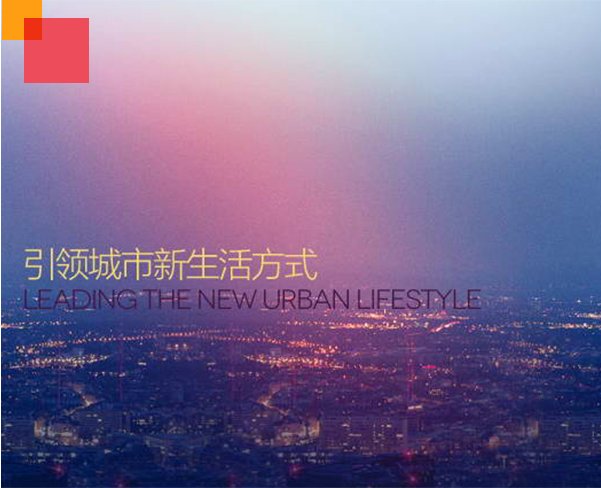
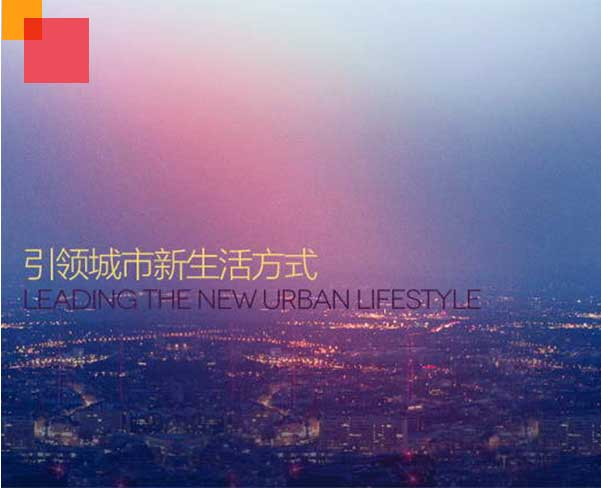
优化图片，首页加载等

diff --git a/views/website/about/history.html b/views/website/about/history.html
@@ -60,10 +60,22 @@
       </span>
       <div class="layui-row">
         <div class="layui-col-md7 history-l">
-          <img class="wow layui-anim animated fadeInLeft" src="/web/img/history/pic1.png">
-          <img class="wow layui-anim animated fadeInLeft" src="/web/img/history/pic2.png">
-          <img class="wow layui-anim animated fadeInLeft" src="/web/img/history/pic3.png">
-          <img class="wow layui-anim animated fadeInLeft" style="margin-bottom:0;" src="/web/img/history/pic4.png">
+          <div>
+            <img class="wow layui-anim animated fadeInLeft" style="margin-right: -20px;" src="/web/img/history/pic1.jpg">
+            <img class="wow layui-anim animated fadeInLeft" src="/web/img/history/line.png">
+          </div>
+          <div>
+            <img class="wow layui-anim animated fadeInLeft" style="margin-right: -20px;" src="/web/img/history/pic2.jpg">
+            <img class="wow layui-anim animated fadeInLeft" src="/web/img/history/line.png">
+          </div>
+          <div>
+            <img class="wow layui-anim animated fadeInLeft" style="margin-right: -20px;" src="/web/img/history/pic3.jpg">
+            <img class="wow layui-anim animated fadeInLeft" src="/web/img/history/line.png">
+          </div>
+          <div>
+            <img class="wow layui-anim animated fadeInLeft" style="margin-right: -20px; margin-bottom: 0" src="/web/img/history/pic4.jpg">
+            <img class="wow layui-anim animated fadeInLeft" src="/web/img/history/line.png">
+          </div>
         </div>
         <div class="layui-col-md5 history-r" style="text-align: center">
           <img class="wow layui-anim animated fadeInRight" data-wow-delay=".5s" data-wow-duration="1s" style="margin-top:-5px;" src="/web/img/history/2017.png">
@@ -77,7 +89,7 @@
           <img class="wow layui-anim animated fadeInRight" data-wow-delay=".5s" data-wow-duration="1s" style="padding-top: 10px;" src="/web/img/history/2009.png">
           <img class="wow layui-anim animated fadeInRight" data-wow-delay=".5s" data-wow-duration="1s" style="padding-top: 45px;" src="/web/img/history/2008.png">
           <img class="wow layui-anim animated fadeInRight" data-wow-delay=".5s" data-wow-duration="1s" style="padding-top: 55px;" src="/web/img/history/2007.png">
-          <img class="wow layui-anim animated fadeInRight" data-wow-delay=".5s" data-wow-duration="1s" style="padding-top: 55px;" data-wow-offset="100" src="/web/img/history/2006.png">
+          <img class="wow layui-anim animated fadeInRight" data-wow-delay=".5s" data-wow-duration="1s" style="padding-top: 45px;" data-wow-offset="100" src="/web/img/history/2006.png">
         </div>
 </div>
 <script>

diff --git a/views/website/index/index.html b/views/website/index/index.html
@@ -1,12 +1,8 @@
 <%include ../common/include_header.html%>
 
 <!-- banner部分 -->
-<div style="height:572px;">
-  <div class="layui-carousel animated bounceInDown" id="banner">
-    <div carousel-item>
-      <div style="background:url(/web/img/banner2.jpg) no-repeat top center"></div>
-      <div style="background:url(/web/img/banner1.jpg) no-repeat top center"></div>
-    </div>
+<div>
+  <img src="/web/img/banner2.jpg" hegiht="572" width="100%" alt="">
   </div>
 </div>
 <!-- main部分 -->
@@ -18,19 +14,19 @@
           <div class="layui-carousel layui-anim layui-anim-upbit" style="animation-duration: 1.3s;" id="project">
             <div carousel-item>
               <div>
-                <img width="100%" src="/web/img/project1.png" alt="">
+                <img width="100%" src="/web/img/project1.jpg" alt="">
                 <p class="project-title">美佳华项目-1</p>
               </div>
               <div>
-                <img width="100%" src="/web/img/project1.png" alt="">
+                <img width="100%" src="/web/img/project1.jpg" alt="">
                 <p class="project-title">美佳华项目-2</p>
               </div>
               <div>
-                <img width="100%" src="/web/img/project1.png" alt="">
+                <img width="100%" src="/web/img/project1.jpg" alt="">
                 <p class="project-title">美佳华项目-3</p>
               </div>
               <div>
-                <img width="100%" src="/web/img/project1.png" alt="">
+                <img width="100%" src="/web/img/project1.jpg" alt="">
                 <p class="project-title">美佳华项目-4</p>
               </div>
             </div>
@@ -94,29 +90,5 @@
     </div>
   </div>
 </div>
-<script src="https://code.createjs.com/1.0.0/preloadjs.min.js"></script>
-<script>
-  // 优加载资源
-  setTimeout(function () {
-    var queue = new createjs.LoadQueue(true);
-
-    queue.loadManifest(
-      [
-        "web/img/culture.png",
-        "web/img/culture-main.png",
-
-        "web/img/history.png",
-        "web/img/history-main_01.png",
-        "web/img/history-main_02.png",
-        "web/img/history-main_03.png",
-        "web/img/history-main_04.png",
-
-        "web/img/profile.png",
-        "web/img/profile-main.png",
-
-        "web/img/honor.png"
-      ]
-    );
-  }, 0);  
-</script>
+<!-- <script src="https://code.createjs.com/1.0.0/preloadjs.min.js"></script> -->
 <%include ../common/include_footer.html%>

diff --git a/views/website/about/culture.html b/views/website/about/culture.html
@@ -51,7 +51,7 @@
   </span>
   <div class="layui-row">
     <div class="layui-col-md6">
-      <img class="layui-anim animated flipInY" src="/web/img/culture-1.png" alt="" style="width: 100%">
+      <img class="layui-anim animated flipInY" src="/web/img/culture-1.jpg" alt="" style="width: 100%">
     </div>
     <div class="layui-col-md6" style="text-align: left">
       <img class="animated flipInY" src="/web/img/culture-2.png" alt="" style="width: 72%; margin-top: 15%;margin-left: 10px;">
@@ -61,7 +61,7 @@
         <img class="layui-anim animated flipInY" src="/web/img/culture-3.png" alt="" style="width: 60%; margin-top: 10%; margin-right: 10px;">
       </div>
       <div class="layui-col-md6">
-        <img class="animated flipInY" src="/web/img/culture-4.png" alt="" style="width: 100%">
+        <img class="animated flipInY" src="/web/img/culture-4.jpg" alt="" style="width: 100%">
       </div>
     </div>
     <%include ../common/include_footer.html%>

diff --git a/views/website/about/index.html b/views/website/about/index.html
@@ -69,22 +69,22 @@
   }
 
   .profile {
-    background: url(/web/img/profile.png) no-repeat center center;
+    background: url(/web/img/profile.jpg) no-repeat center center;
     animation-duration: .3s;
   }
 
   .culture {
-    background: url(/web/img/culture.png) no-repeat center center;
+    background: url(/web/img/culture.jpg) no-repeat center center;
     animation-duration: 1s;
   }
 
   .history {
-    background: url(/web/img/history.png) no-repeat center center;
+    background: url(/web/img/history.jpg) no-repeat center center;
     animation-duration: 1.7s;
   }
 
   .honor {
-    background: url(/web/img/honor.png) no-repeat center center;
+    background: url(/web/img/honor.jpg) no-repeat center center;
     animation-duration: 2.4s;
   }
 </style>

diff --git a/public/web/css/index.css b/public/web/css/index.css
@@ -195,19 +195,19 @@ p.project-title{
 }
 
 .cy{
-  background: url(../img/cy.png) no-repeat center center;
+  background: url(../img/cy.jpg) no-repeat center center;
   background-size: cover;
 }
 .jr{
-  background: url(../img/jr.png) no-repeat center center;
+  background: url(../img/jr.jpg) no-repeat center center;
   background-size: cover;
 }
 .sy{
-  background: url(../img/sy.png) no-repeat center center;
+  background: url(../img/sy.jpg) no-repeat center center;
   background-size: cover;
 }
 .wy{
-  background: url(../img/wy.png) no-repeat center center;
+  background: url(../img/wy.jpg) no-repeat center center;
   background-size: cover;
 }
 
